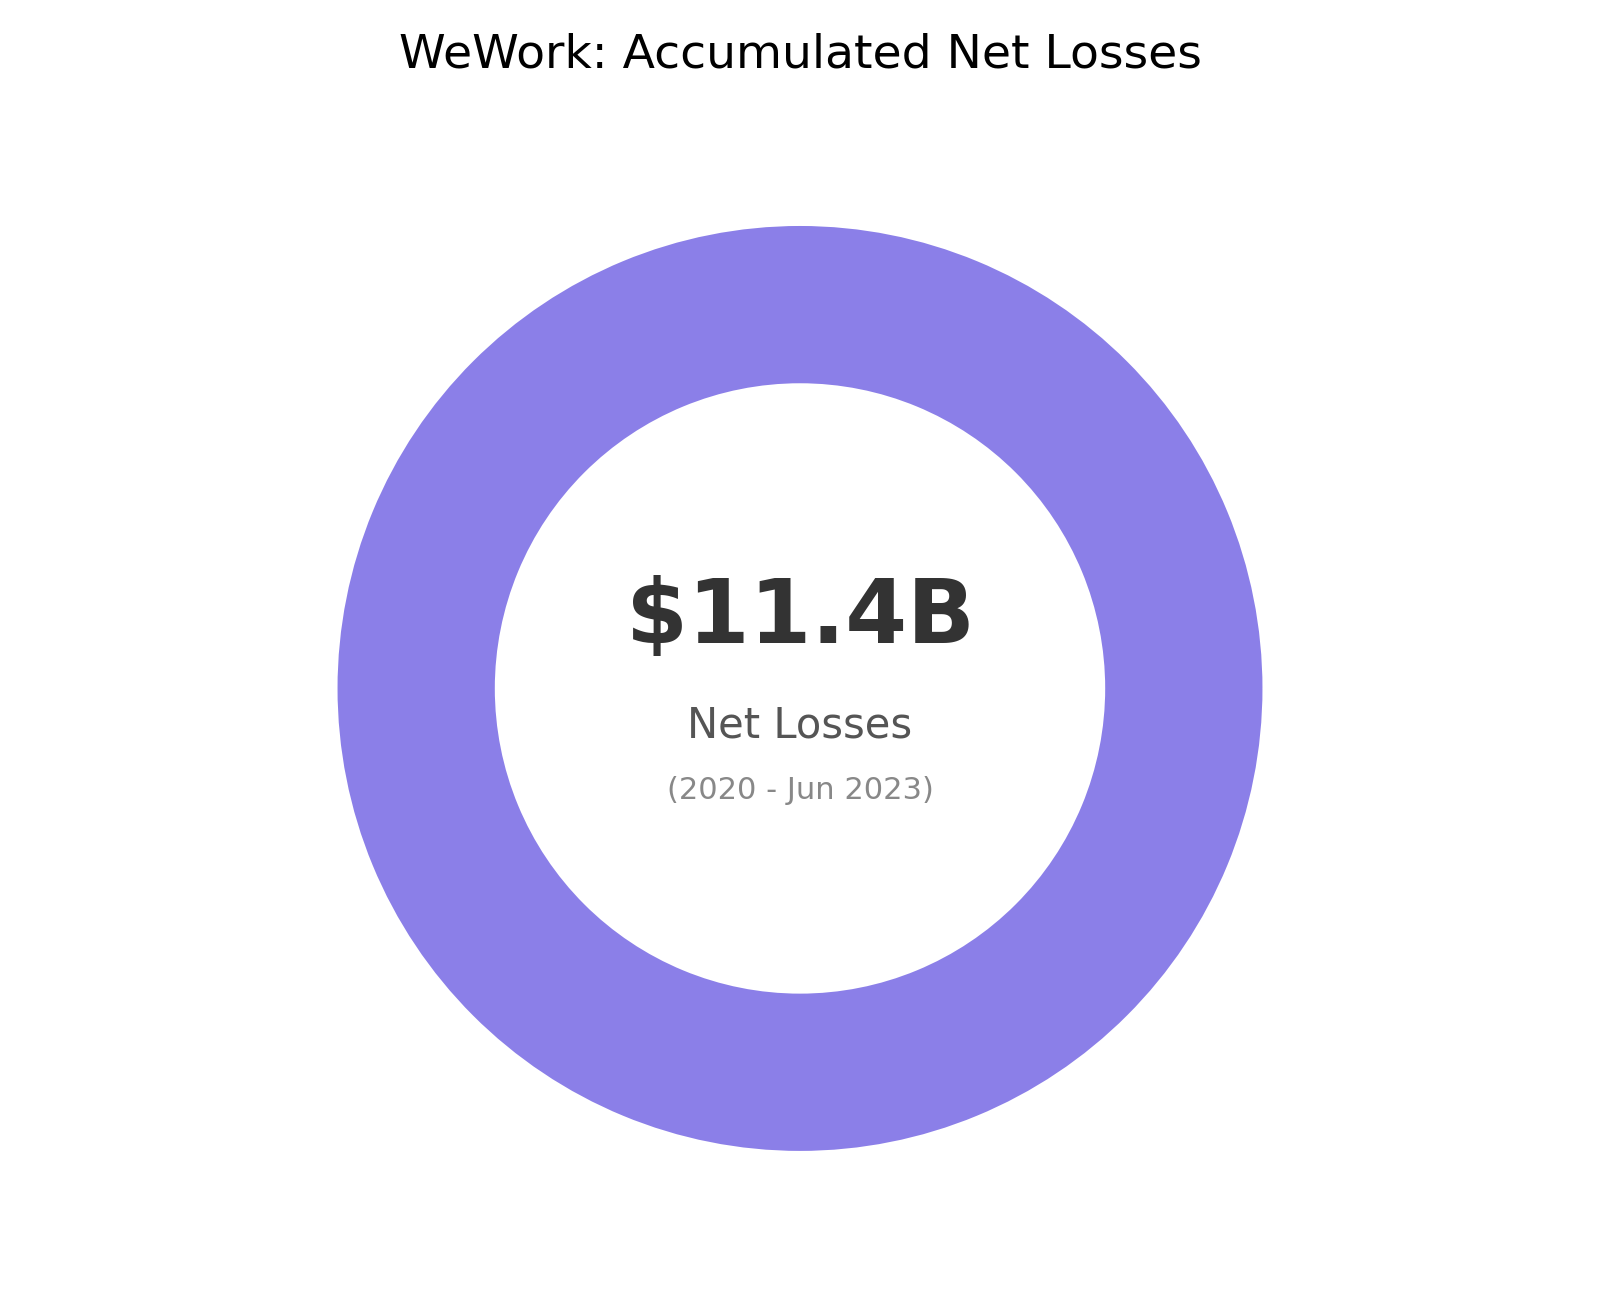
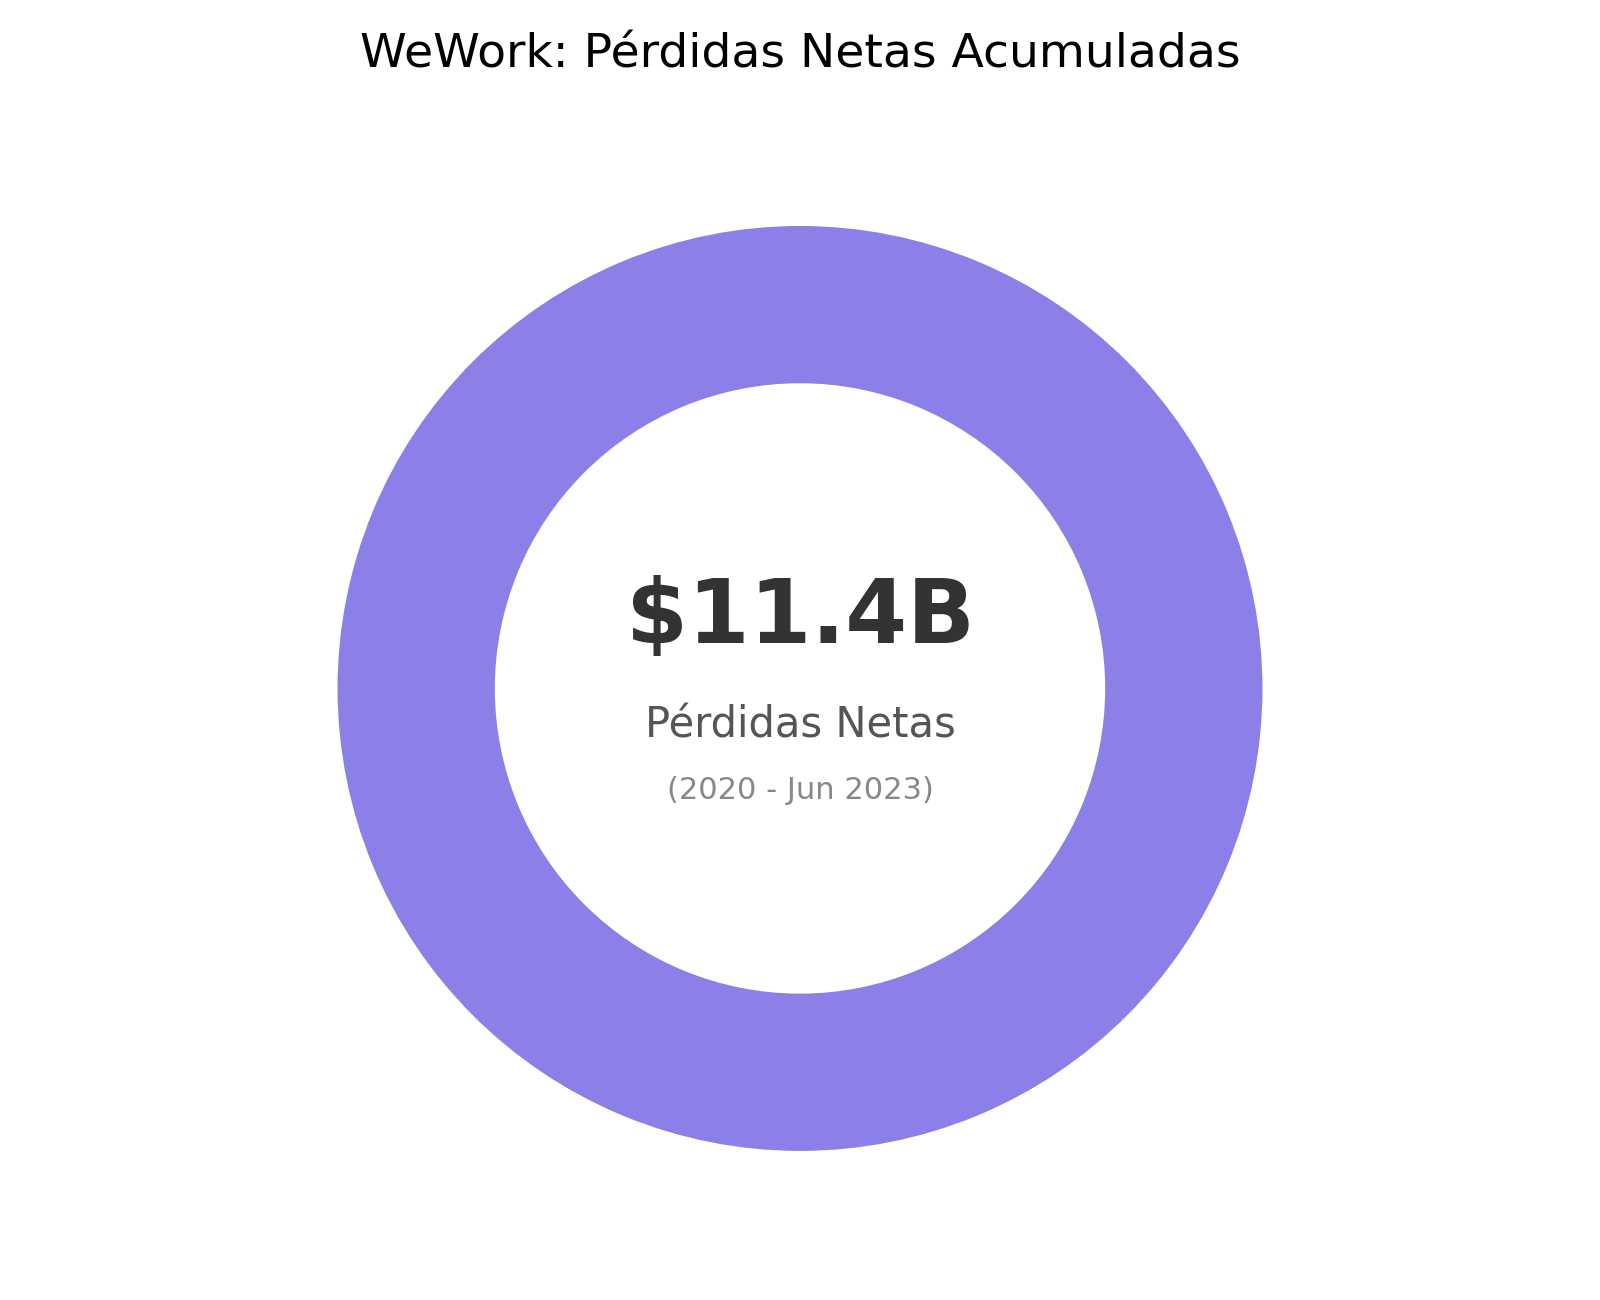
Traducir imágenes de WeWork y botón de GitHub al español

Changed region(s): [[0.2188, 0.0308, 0.7812, 0.0615], [0.4062, 0.5231, 0.5938, 0.5846]]

diff --git a/src/components/portfolio/ProjectCard.tsx b/src/components/portfolio/ProjectCard.tsx
@@ -44,7 +44,7 @@ export function GithubLink({ href }: { href: string }) {
   return (
     <ActionLink href={href} variant="solid">
       <Github className="h-4 w-4" aria-hidden="true" />
-      View on GitHub
+      Ver en GitHub
     </ActionLink>
   );
 }
